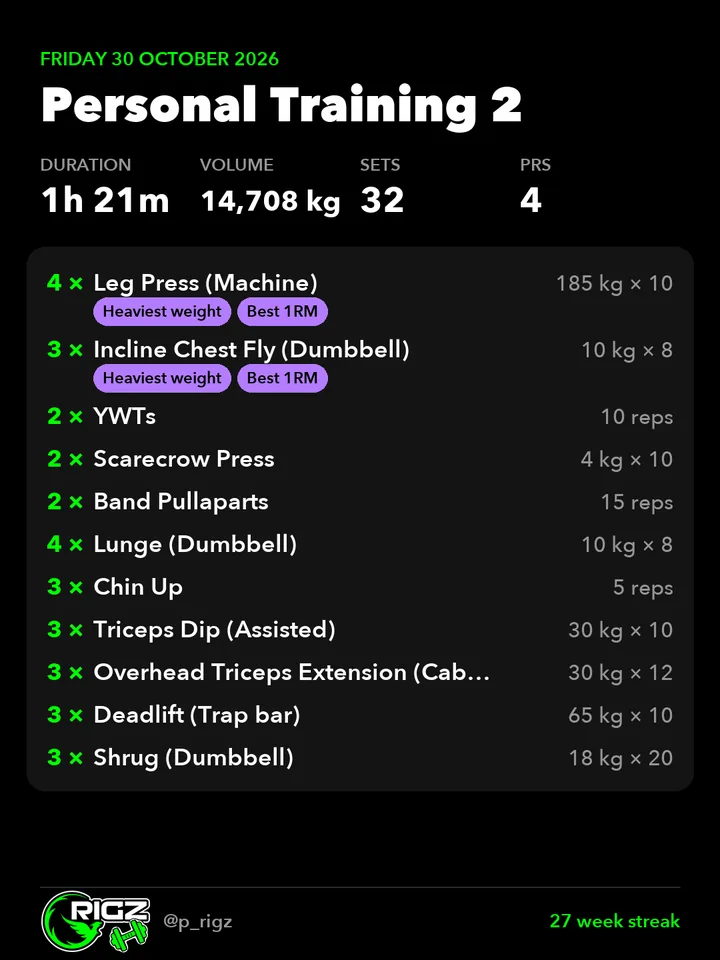
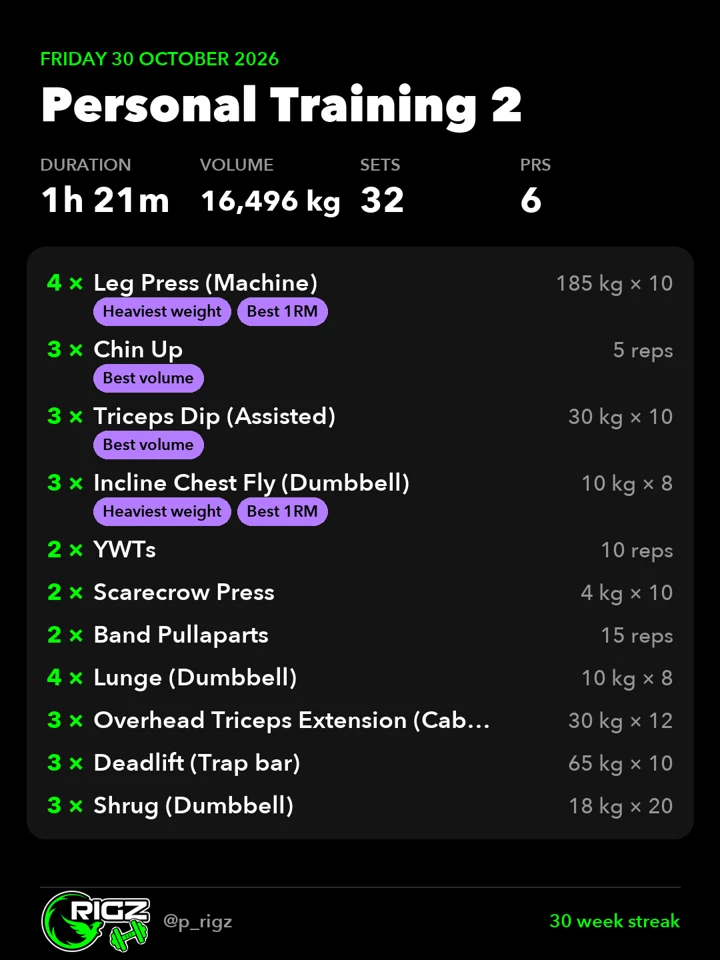
Liftz page: figures as of 16 Nov 2026, counted the way Hevy counts
- Stats: 127 workouts, 30 week streak, 1,097,832 kg, 128 hours (volume now
  includes bodyweight on full-bodyweight moves and carries as weight x distance)
- Cards remade from the same workouts: Personal Training 2 (16,496 kg,
  516 R2-D2s), Lower body (13,350 kg, 17 F1 cars), all time 0.58% of the
  Enterprise, September highlights; dashboard overview screenshot retaken
- Image descriptions and captions updated to match

diff --git a/liftz/index.html b/liftz/index.html
@@ -40,7 +40,7 @@
       <a class="btn solid" href="#gym">See it in action</a><a class="btn ghost" href="https://www.instagram.com/p_rigz/">Follow @p_rigz</a><a class="btn ghost" href="https://hevy.com/user/prigz">Follow on Hevy</a>
     </div>
     <div class="phone">
-      <img src="../img/story.webp" alt="Story card for Personal Training 2: 1 hour 21 minutes, 14,708 kg, 32 sets, 4 PRs, with every exercise and best set listed" width="540" height="960" fetchpriority="high">
+      <img src="../img/story.webp" alt="Story card for Personal Training 2: 1 hour 21 minutes, 16,496 kg, 32 sets, 6 PRs, with every exercise and best set listed" width="540" height="960" fetchpriority="high">
     </div>
   </div>
 </section>
@@ -48,12 +48,12 @@
 <section style="padding-top: 0">
   <div class="wrap">
     <div class="stats">
-      <div class="stat"><b>115</b><span>workouts</span></div>
-      <div class="stat"><b>27</b><span>week streak</span></div>
-      <div class="stat"><b>877,289</b><span>kg lifted</span></div>
-      <div class="stat"><b>114</b><span>hours training</span></div>
+      <div class="stat"><b>127</b><span>workouts</span></div>
+      <div class="stat"><b>30</b><span>week streak</span></div>
+      <div class="stat"><b>1,097,832</b><span>kg lifted</span></div>
+      <div class="stat"><b>128</b><span>hours training</span></div>
     </div>
-    <p class="note">Since 3 May 2026, as of 31 October 2026.</p>
+    <p class="note">Since 3 May 2026, as of 16 November 2026. Volume is counted the way Hevy counts it, bodyweight and carries included.</p>
   </div>
 </section>
 
@@ -63,7 +63,7 @@
     <h2>From set logged to story posted</h2>
     <p class="lead"><a href="https://hevy.com/user/prigz">Hevy</a> is where I log every set. This is everything I wanted on top of it.</p>
     <div class="steps">
-      <div class="step"><div class="n">1</div><h3>Pull the data</h3><p>Hevy's API copies every workout into a database I own. 115 workouts so far.</p></div>
+      <div class="step"><div class="n">1</div><h3>Pull the data</h3><p>Hevy's API copies every workout into a database I own. 127 workouts so far.</p></div>
       <div class="step"><div class="n">2</div><h3>Crunch it</h3><p>Estimated 1RMs, PRs, volume, sets per muscle group, streaks. It even flags sets that look like typos.</p></div>
       <div class="step"><div class="n">3</div><h3>Make the cards</h3><p>Every session becomes a black and green RIGZ card, sized for feed posts, stories and carousels.</p></div>
       <div class="step"><div class="n">4</div><h3>Look back</h3><p>A dashboard with a clickable training calendar, records, comparisons and weekly or monthly reports.</p></div>
@@ -129,9 +129,9 @@
     <h2>That's like lifting<span class="g">…</span></h2>
     <p class="lead">Every session's volume compared with something I actually care about: F1, Star Wars, Star Trek, NASA, Warhammer 40k, Critical Role. Every icon drawn from scratch.</p>
     <div class="gallery">
-      <figure><img src="../img/vol-f1.webp" alt="Volume card: 4,870 kg is like lifting 6.3 F1 cars" width="720" height="960" loading="lazy"><figcaption><b>Leg day:</b> 6.3 F1 cars</figcaption></figure>
-      <figure><img src="../img/vol-r2d2.webp" alt="Volume card: 14,708 kg is like lifting 460 R2-D2s" width="720" height="960" loading="lazy"><figcaption><b>Friday:</b> 460 R2-D2s</figcaption></figure>
-      <figure><img src="../img/vol-enterprise.webp" alt="Volume card: 877,289 kg all time is 0.46% of the USS Enterprise" width="720" height="960" loading="lazy"><figcaption><b>All time:</b> 0.46% of the Enterprise</figcaption></figure>
+      <figure><img src="../img/vol-f1.webp" alt="Volume card: 13,350 kg is like lifting 17 F1 cars" width="720" height="960" loading="lazy"><figcaption><b>Leg day:</b> 17 F1 cars</figcaption></figure>
+      <figure><img src="../img/vol-r2d2.webp" alt="Volume card: 16,496 kg is like lifting 516 R2-D2s" width="720" height="960" loading="lazy"><figcaption><b>Friday:</b> 516 R2-D2s</figcaption></figure>
+      <figure><img src="../img/vol-enterprise.webp" alt="Volume card: 1,097,832 kg all time is 0.58% of the USS Enterprise" width="720" height="960" loading="lazy"><figcaption><b>All time:</b> 0.58% of the Enterprise</figcaption></figure>
     </div>
 
     <h2 class="subhead">Every session, a card</h2>
@@ -149,7 +149,7 @@
     <h2>All of it, in one place</h2>
     <p class="lead">Runs on my Mac. One command opens it, already synced.</p>
     <div class="shots">
-      <figure><img src="../img/dash-overview.webp" alt="Dashboard overview: 115 workouts, 4.3 per week, 114 hours, weekly volume and workouts per week charts" width="1400" height="771" loading="lazy"><figcaption><b>Overview:</b> every week since May</figcaption></figure>
+      <figure><img src="../img/dash-overview.webp" alt="Dashboard overview: 127 workouts, 4.4 per week, 128 hours, 1,097.8k kg, 30 week streak, weekly volume and workouts per week charts" width="1400" height="771" loading="lazy"><figcaption><b>Overview:</b> every week since May</figcaption></figure>
       <figure><img src="../img/dash-calendar.webp" alt="Training calendar with a day selected, showing that session's stats and exercises" width="1400" height="919" loading="lazy"><figcaption><b>Calendar:</b> click any day for the full breakdown and its cards</figcaption></figure>
       <figure><img src="../img/dash-compare.webp" alt="Compare tab: last 4 weeks against the 4 before, per-week rates and charts" width="1400" height="634" loading="lazy"><figcaption><b>Compare:</b> any two periods, side by side</figcaption></figure>
     </div>
